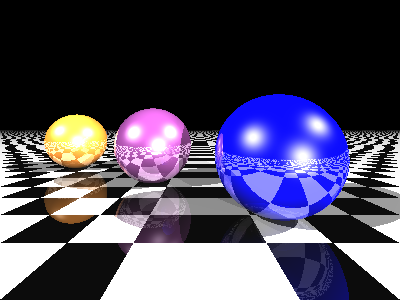
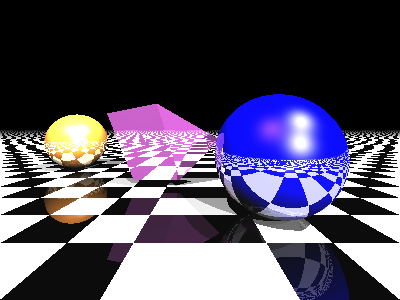
Added triangle meshes

diff --git a/raytracing.py b/raytracing.py
@@ -1,5 +1,6 @@
 import numpy as np
 import matplotlib.pyplot as plt
+import time
 
 w = 400
 h = 300
@@ -12,6 +13,7 @@ def intersect_plane(O, D, P, N):
     # Return the distance from O to the intersection of the ray (O, D) with the 
     # plane (P, N), or +inf if there is no intersection.
     # O and P are 3D points, D and N (normal) are normalized vectors.
+
     denom = np.dot(D, N)
     if np.abs(denom) < 1e-6:
         return np.inf
@@ -20,10 +22,20 @@ def intersect_plane(O, D, P, N):
         return np.inf
     return d
 
+def intersection_point(O, t, D):
+    # Return the intersection point with a plane, or +inf if there is no intersection.
+    # O and P are 3D points, D and N (normal) are normalized vectors.
+
+    if t == np.inf:
+	return t
+    
+    return O + t * D
+
 def intersect_sphere(O, D, S, R):
     # Return the distance from O to the intersection of the ray (O, D) with the 
     # sphere (S, R), or +inf if there is no intersection.
     # O and S are 3D points, D (direction) is a normalized vector, R is a scalar.
+
     a = np.dot(D, D)
     OS = O - S
     b = 2 * np.dot(D, OS)
@@ -39,11 +51,37 @@ def intersect_sphere(O, D, S, R):
             return t1 if t0 < 0 else t0
     return np.inf
 
+def intersect_triangle(O, D, A, B, C, N):
+    # Return the distance from O to the intersection of the ray (O, D) with the 
+    # triangle (A, B, C, N), or +inf if there is no intersection.
+    # O, A, B and C are 3D points, D (direction) and N (normal) are normalized vectors.
+	
+    t = intersect_plane(O, D, A, N)
+    intersectionPoint = intersection_point(O, t, D)
+    if (np.isinf(intersectionPoint).all()):
+		return np.inf
+
+    v1 = normalize(A - B)
+    if (np.dot( N, np.cross(v1, (normalize(intersectionPoint - B)) )) < 0):
+        return np.inf
+
+    v2 = normalize(B - C)
+    if (np.dot( N, np.cross(v2, (normalize(intersectionPoint - C)) )) < 0):
+        return np.inf
+
+    v3 = normalize(C - A)
+    if (np.dot( N, np.cross(v3, (normalize(intersectionPoint - A)) )) < 0):
+       return np.inf
+
+    return t
+
 def intersect(O, D, obj):
     if obj['type'] == 'plane':
         return intersect_plane(O, D, obj['position'], obj['normal'])
     elif obj['type'] == 'sphere':
         return intersect_sphere(O, D, obj['position'], obj['radius'])
+    elif obj['type'] == 'triangle':
+	return intersect_triangle(O, D, obj['A'], obj['B'], obj['C'], obj['normal'])
 
 def get_normal(obj, M):
     # Find normal.
@@ -51,6 +89,8 @@ def get_normal(obj, M):
         N = normalize(M - obj['position'])
     elif obj['type'] == 'plane':
         N = obj['normal']
+    elif obj['type'] == 'triangle':
+		N = obj['normal']
     return N
     
 def get_color(obj, M):
@@ -76,28 +116,39 @@ def trace_ray(rayO, rayD):
     # Find properties of the object.
     N = get_normal(obj, M)
     color = get_color(obj, M)
+
     toO = normalize(O - M)
-	
-	# Start computing the color.
+    # Start computing the color.
     col_ray = ambient
-	
     for index, light in enumerate(light_array):
-        toL = normalize(light - M)
-        # Shadow: find if the point is shadowed or not.
-        l = [intersect(M + N * .0001, toL, obj_sh) 
-                for k, obj_sh in enumerate(scene) if k != obj_idx]
-        if l and min(l) < np.inf:
-            continue
-        # Lambert shading (diffuse).
-        col_ray += obj.get('diffuse_c', diffuse_c) * max(np.dot(N, toL), 0) * color
-        # Blinn-Phong shading (specular).
-        col_ray += obj.get('specular_c', specular_c) * max(np.dot(N, normalize(toL + toO)), 0) ** specular_k * color_light[index]
+	toL = normalize(light - M)
+    # Shadow: find if the point is shadowed or not.
+	l = [intersect(M + N * .0001, toL, obj_sh) 
+		for k, obj_sh in enumerate(scene) if k != obj_idx]
+	if l and min(l) < np.inf:
+		continue
+	# Lambert shading (diffuse).
+	col_ray += obj.get('diffuse_c', diffuse_c) * max(np.dot(N, toL), 0) * color
+	# Blinn-Phong shading (specular).
+	col_ray += obj.get('specular_c', specular_c) * max(np.dot(N, normalize(toL + toO)), 0) ** specular_k * color_light[index]
 
     return obj, M, N, col_ray
 
 def add_sphere(position, radius, color):
     return dict(type='sphere', position=np.array(position), 
         radius=np.array(radius), color=np.array(color), reflection=.5)
+
+def add_triangle(A, B, C, color):
+    vector1 = [B[0]-A[0], B[1]-A[1], B[2]-A[2]]
+    vector2 = [C[0]-A[0], C[1]-A[1], C[2]-A[2]]
+    return dict(type='triangle', A=np.array(A),
+	B=np.array(B), C=np.array(C),
+        color=np.array(color), reflection=.5, normal=np.array(np.cross(vector2, vector1)))
+
+def add_triangle_mesh(scene, A, B, C, D, E, color):
+    scene.append(add_triangle(A, B, C, color))
+    scene.append(add_triangle(B, D, C, color))
+    scene.append(add_triangle(E, A, C, color))
     
 def add_plane(position, normal):
     return dict(type='plane', position=np.array(position), 
@@ -110,14 +161,14 @@ def add_plane(position, normal):
 color_plane0 = 1. * np.ones(3)
 color_plane1 = 0. * np.ones(3)
 scene = [add_sphere([.75, .1, 1.], .6, [0., 0., 1.]),
-         add_sphere([-.75, .1, 2.25], .6, [.5, .223, .5]),
          add_sphere([-2.75, .1, 3.5], .6, [1., .572, .184]),
-         add_plane([0., -.5, 0.], [0., 1., 0.]),
+         add_plane([0., -.5, 0.], [0., 1., 0.])
     ]
+add_triangle_mesh(scene, [-1., -.4, 2], [-0.3, -.4, 2], [-.65, .75, 2], [.3, .2, 2], [-1.4, .6, 2], [.5, .223, .5])
 
-# Light positions and colors.
-light_array = [np.array([5., 1., -10.]), np.array([-20., 15., -10.]), np.array([45., 35., -10.])]
-color_light = [np.ones(3), np.ones(3), np.ones(3)]
+# Light position and color.
+light_array = [np.array([5., 5., -10.]), np.array([-5., 15., -10.]), np.array([15., 25., -10.])]
+color_light = [np.ones(3), np.array([.5, .223, .5]), np.ones(3)]
 
 # Default light and material parameters.
 ambient = .05
@@ -136,9 +187,10 @@ r = float(w) / h
 S = (-1., -1. / r + .25, 1., 1. / r + .25)
 
 # Loop through all pixels.
+t0 = time.time()
 for i, x in enumerate(np.linspace(S[0], S[2], w)):
     if i % 10 == 0:
-        print (i / float(w) * 100), "%"
+        print i / float(w) * 100, "%"
     for j, y in enumerate(np.linspace(S[1], S[3], h)):
         col[:] = 0
         Q[:2] = (x, y)
@@ -159,4 +211,6 @@ for i, x in enumerate(np.linspace(S[0], S[2], w)):
             reflection *= obj.get('reflection', 1.)
         img[h - j - 1, i, :] = np.clip(col, 0, 1)
 
+t1 = time.time()
+print t1-t0
 plt.imsave('fig.png', img)
